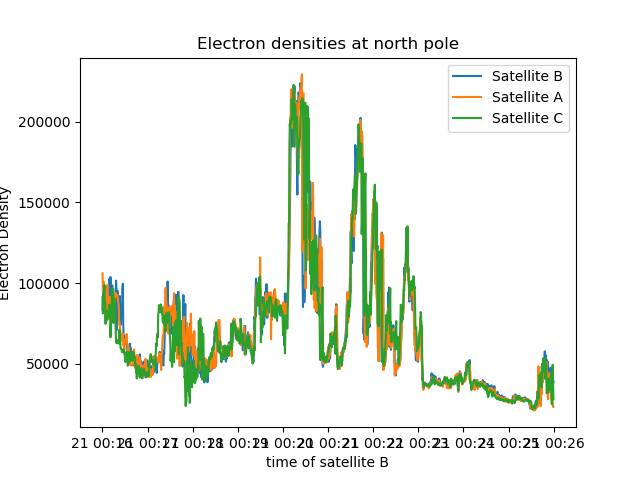
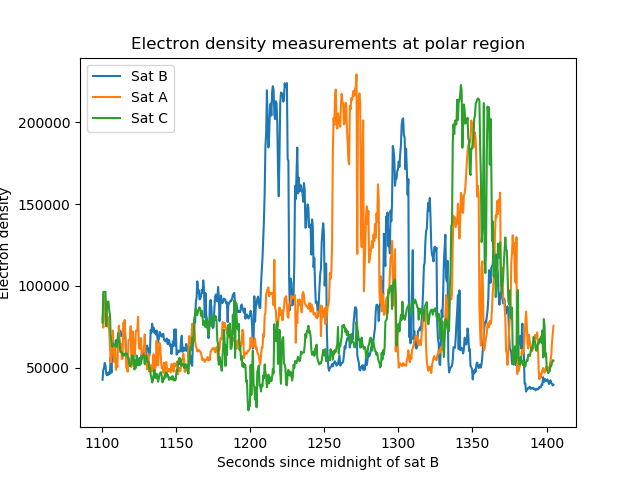
Added figures

diff --git a/SWARM/wave_inspector.py b/SWARM/wave_inspector.py
@@ -29,29 +29,29 @@ class WaveInspect(SWARMprocess):
         cdfB_path = data_path + "/Sat_B/SW_OPER_EFIB_LP_1B_20131221T000000_20131221T235959_0501.CDF/SW_OPER_EFIB_LP_1B_20131221T000000_20131221T235959_0501_MDR_EFI_LP.cdf"
         cdfC_path = data_path + "/Sat_C/SW_OPER_EFIC_LP_1B_20131221T000000_20131221T235959_0501.CDF/SW_OPER_EFIC_LP_1B_20131221T000000_20131221T235959_0501_MDR_EFI_LP.cdf"
 
-        cdfA = pycdf.CDF(cdfA_path)
-        cdfB = pycdf.CDF(cdfB_path)
-        cdfC = pycdf.CDF(cdfC_path)
+        self.cdfA = pycdf.CDF(cdfA_path)
+        self.cdfB = pycdf.CDF(cdfB_path)
+        self.cdfC = pycdf.CDF(cdfC_path)
         #Retrieving data from CDF files.
-        self.NeA = cdfA["Ne"][:N]
-        self.NeB = cdfB["Ne"][:N]
-        self.NeC = cdfC["Ne"][:N]
+        self.NeA = self.cdfA["Ne"][:N]
+        self.NeB = self.cdfB["Ne"][:N]
+        self.NeC = self.cdfC["Ne"][:N]
 
-        self.longA = cdfA["Longitude"][:N]
-        self.longB = cdfB["Longitude"][:N]
-        self.longC = cdfC["Longitude"][:N]
+        self.longA = self.cdfA["Longitude"][:N]
+        self.longB = self.cdfB["Longitude"][:N]
+        self.longC = self.cdfC["Longitude"][:N]
 
-        self.latA = cdfA["Latitude"][:N]
-        self.latB = cdfB["Latitude"][:N]
-        self.latC = cdfC["Latitude"][:N]
+        self.latA = self.cdfA["Latitude"][:N]
+        self.latB = self.cdfB["Latitude"][:N]
+        self.latC = self.cdfC["Latitude"][:N]
 
-        self.radA = cdfA["Radius"][:N]
-        self.radB = cdfB["Radius"][:N]
-        self.radC = cdfC["Radius"][:N]
+        self.radA = self.cdfA["Radius"][:N]
+        self.radB = self.cdfB["Radius"][:N]
+        self.radC = self.cdfC["Radius"][:N]
 
         #Setting time to seconds after midnight
-        self.seconds = self.stamp_to_sec(cdfA["Timestamp"][:N])
-        self.stamps = cdfA["Timestamp"][:N]
+        self.seconds = self.stamp_to_sec(self.cdfA["Timestamp"][:N])
+        self.stamps = self.cdfA["Timestamp"][:N]
         #finding first indices of pole region
         self.pole_finder()
         self.figpath = "/home/aksel/Documents/Master/Spacemaster/SWARM/Figures/"
@@ -94,6 +94,7 @@ class WaveInspect(SWARMprocess):
         plt.ylabel("Electron density")
         plt.title("Electron density measurements at polar region")
         plt.legend(["Sat B", "Sat A", "Sat C"])
+        plt.savefig(self.figpath + "polar_density.png")
         plt.show()
 
         AB_pearson = pearsonr(NeB, NeA)[0]
@@ -118,6 +119,7 @@ class WaveInspect(SWARMprocess):
         plt.ylabel("Electron density [cm⁻¹]")
         plt.title("Shifted electron density measurements")
         plt.legend(["Sat B", "Sat A", "Sat C"])
+        plt.savefig(self.figpath + "polar_density_corr.png")
         plt.show()
 
         AB_shift_pearson = pearsonr(NeB, NeA)[0]
@@ -172,6 +174,7 @@ class WaveInspect(SWARMprocess):
         plt.title("A shifted %g, B shifted %g" % (max_indA, max_indB))
         plt.savefig("/home/aksel/Documents/Master/Spacemaster/SWARM/Figures/intersting_case_shifted.png")
         plt.show()
+        print(self.cdfB["U_orbit"][index1])
 
 
     def pole_case_study2(self):
